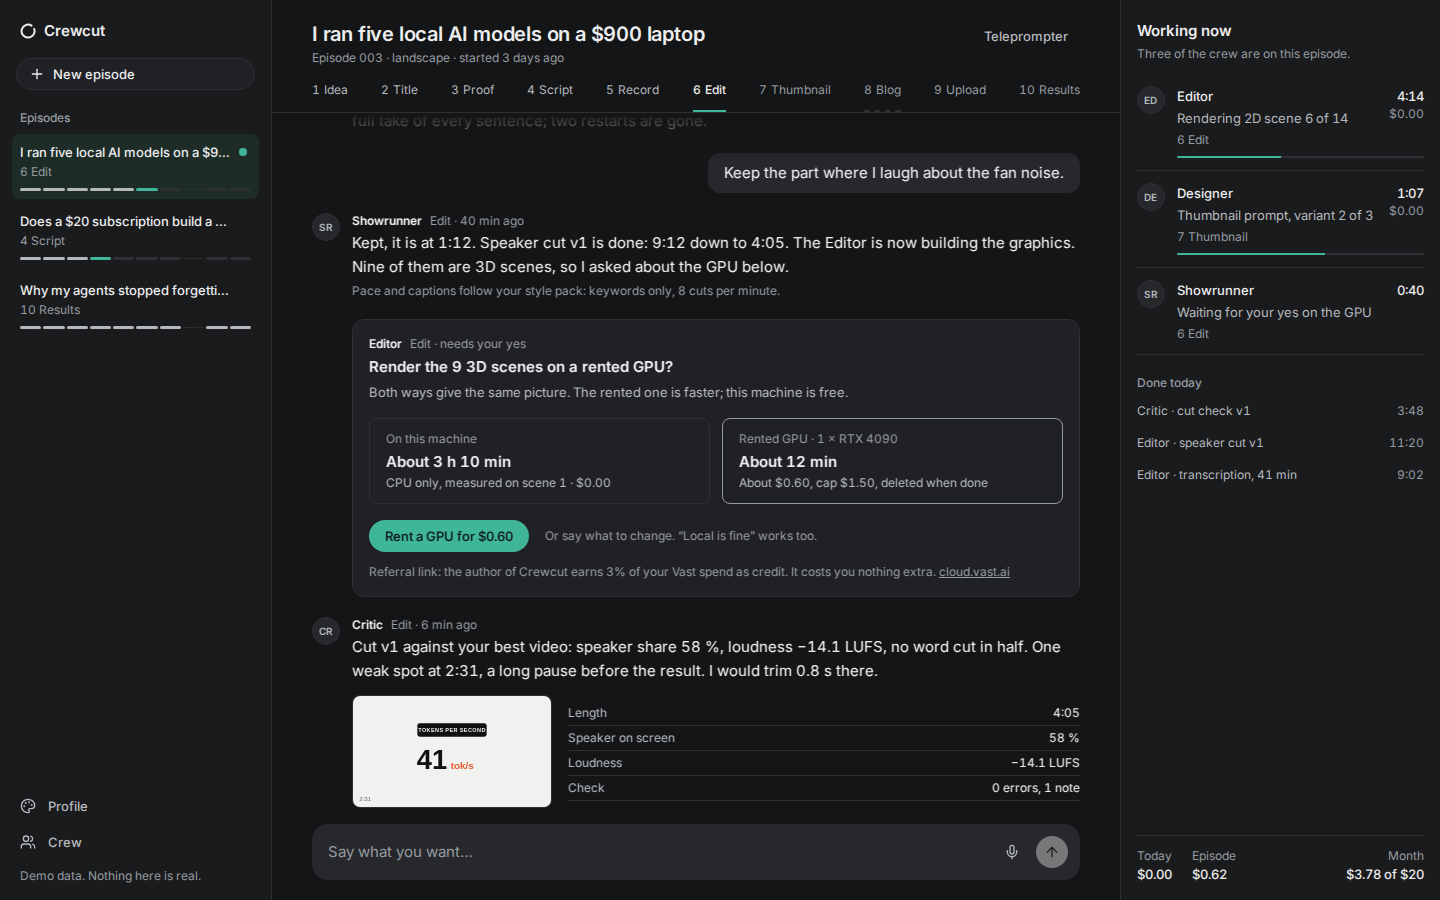
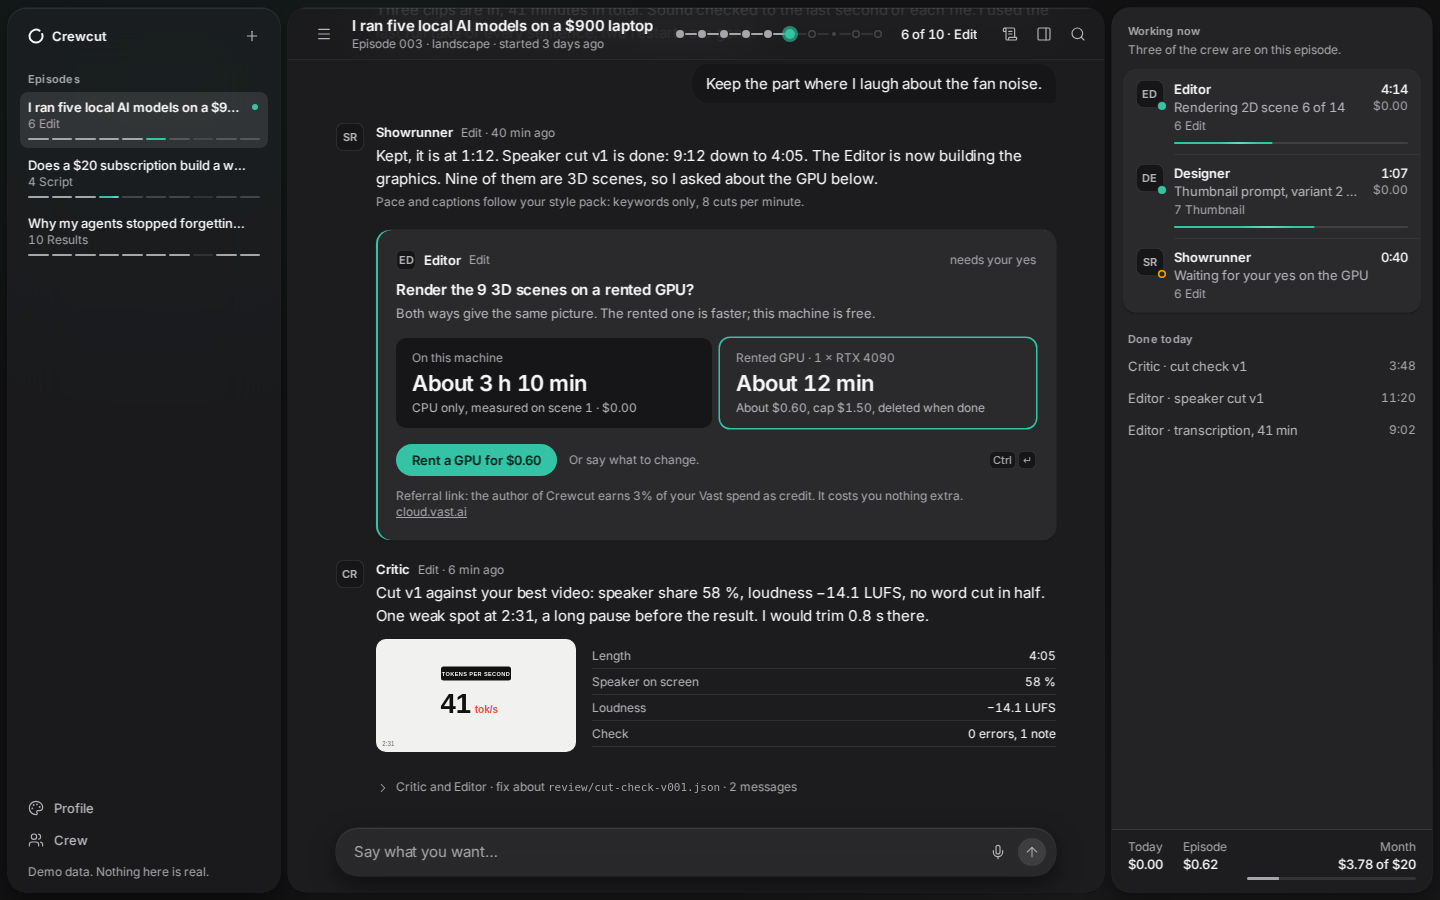
README images re-rendered in CI from the Apple look (window light and dark at 2x, animation, plain screenshots); exchange line aligned with the message text
Claude-Session: https://claude.ai/code/session_0155cQo7JNko2nMx9UFSJV3g

diff --git a/web/src/styles/app.css b/web/src/styles/app.css
@@ -817,8 +817,9 @@ svg.lucide {
 }
 
 /* A finished exchange between two crew members: one quiet line with a disclosure chevron. */
+/* The chevron (14 px) and its gap (6 px) hang in the gutter, so the line's text starts on the message text column. */
 .exchange {
-  padding-left: 40px;
+  padding-left: 20px;
   min-width: 0;
 }
 
